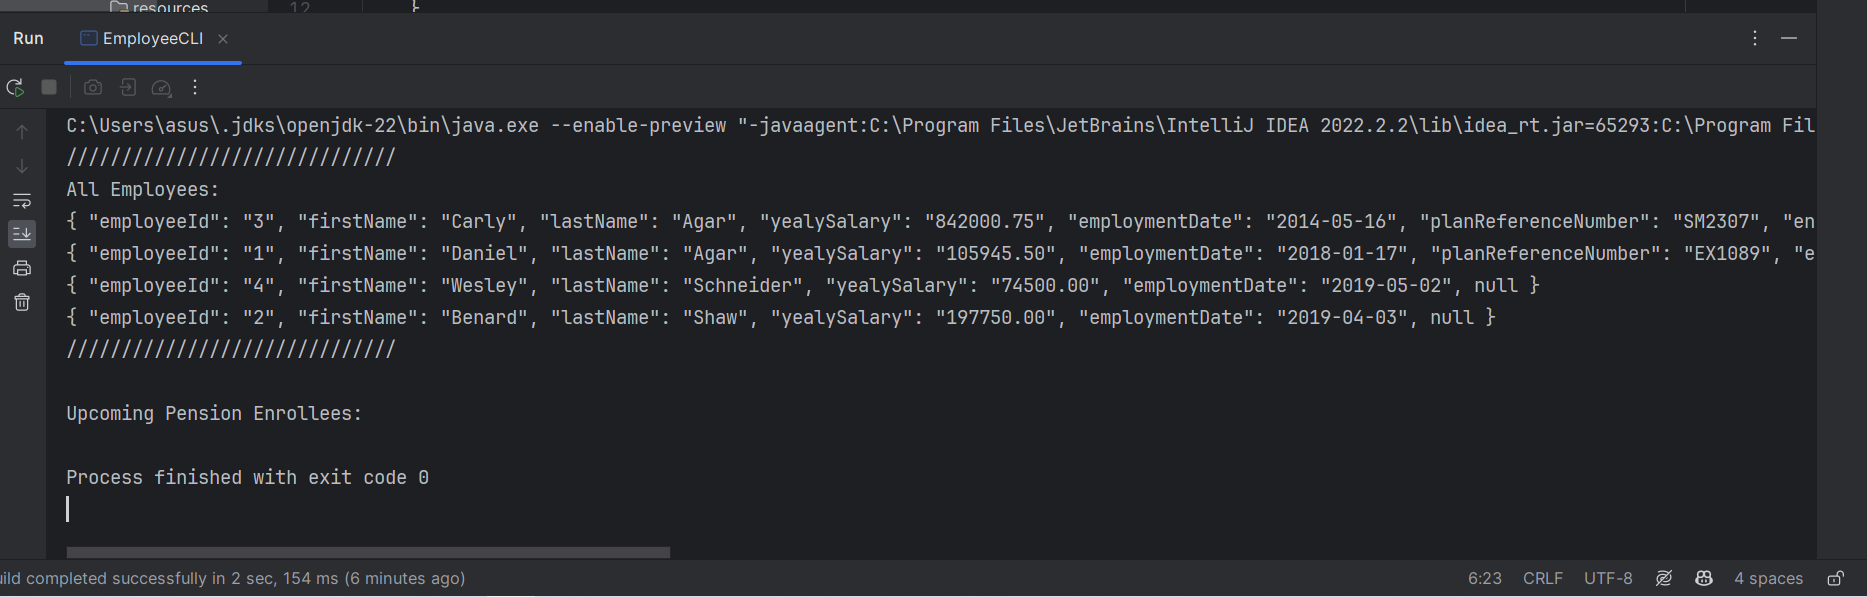
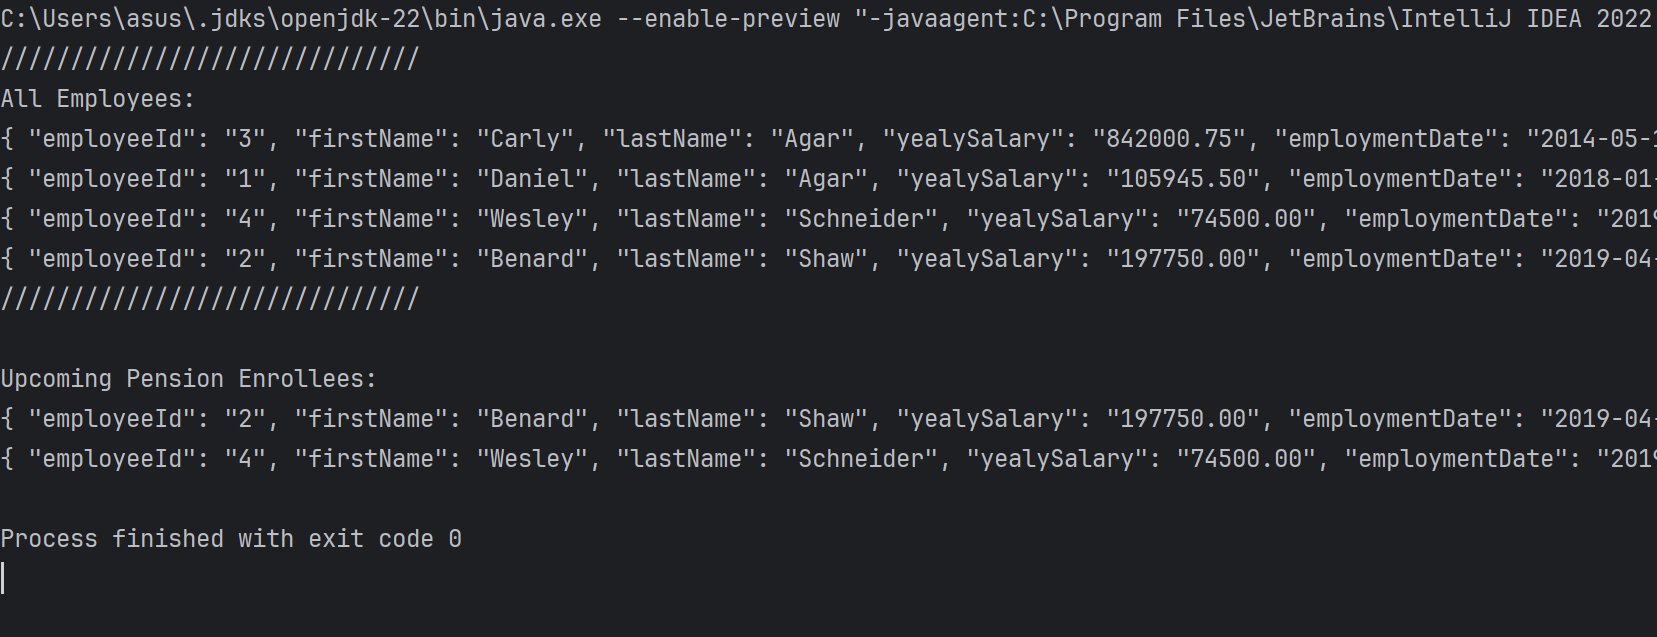
EmployeeeManager class edited to get the right output

diff --git a/src/main/java/edu/miu/cs489/appsd/model/EmployeeManager.java b/src/main/java/edu/miu/cs489/appsd/model/EmployeeManager.java
@@ -22,12 +22,15 @@ public class EmployeeManager {
         }
     }
     public void printUpcomingEnrollees() {
-        LocalDate localDateStart = LocalDate.now().plusMonths(1).withDayOfMonth(1);
-        LocalDate qualifiedLocalDate = localDateStart.plusMonths(1).minusDays(1);
+        LocalDate nextMonthLocalDate = LocalDate.now().plusMonths(1);//4, May 2024
+//        LocalDate qualifiedLocalDate = localDateStart.plusMonths(1).minusDays(1);
 
         List<Employee> upcomingEnrollees = employees.stream()
                 .filter(employee -> employee.getPensionPlan() == null)
-                .filter(employee -> employee.getEmploymentDate().isBefore(qualifiedLocalDate.plusDays(1)))
+                .filter(employee -> (employee.getEmploymentDate().plusYears(5).getMonth().equals(nextMonthLocalDate.getMonth())
+                        &&
+                        employee.getEmploymentDate().plusYears(5).getYear() == nextMonthLocalDate.getYear())
+                        )
                 .sorted(Comparator.comparing(Employee::getEmploymentDate))
                 .toList();
 
